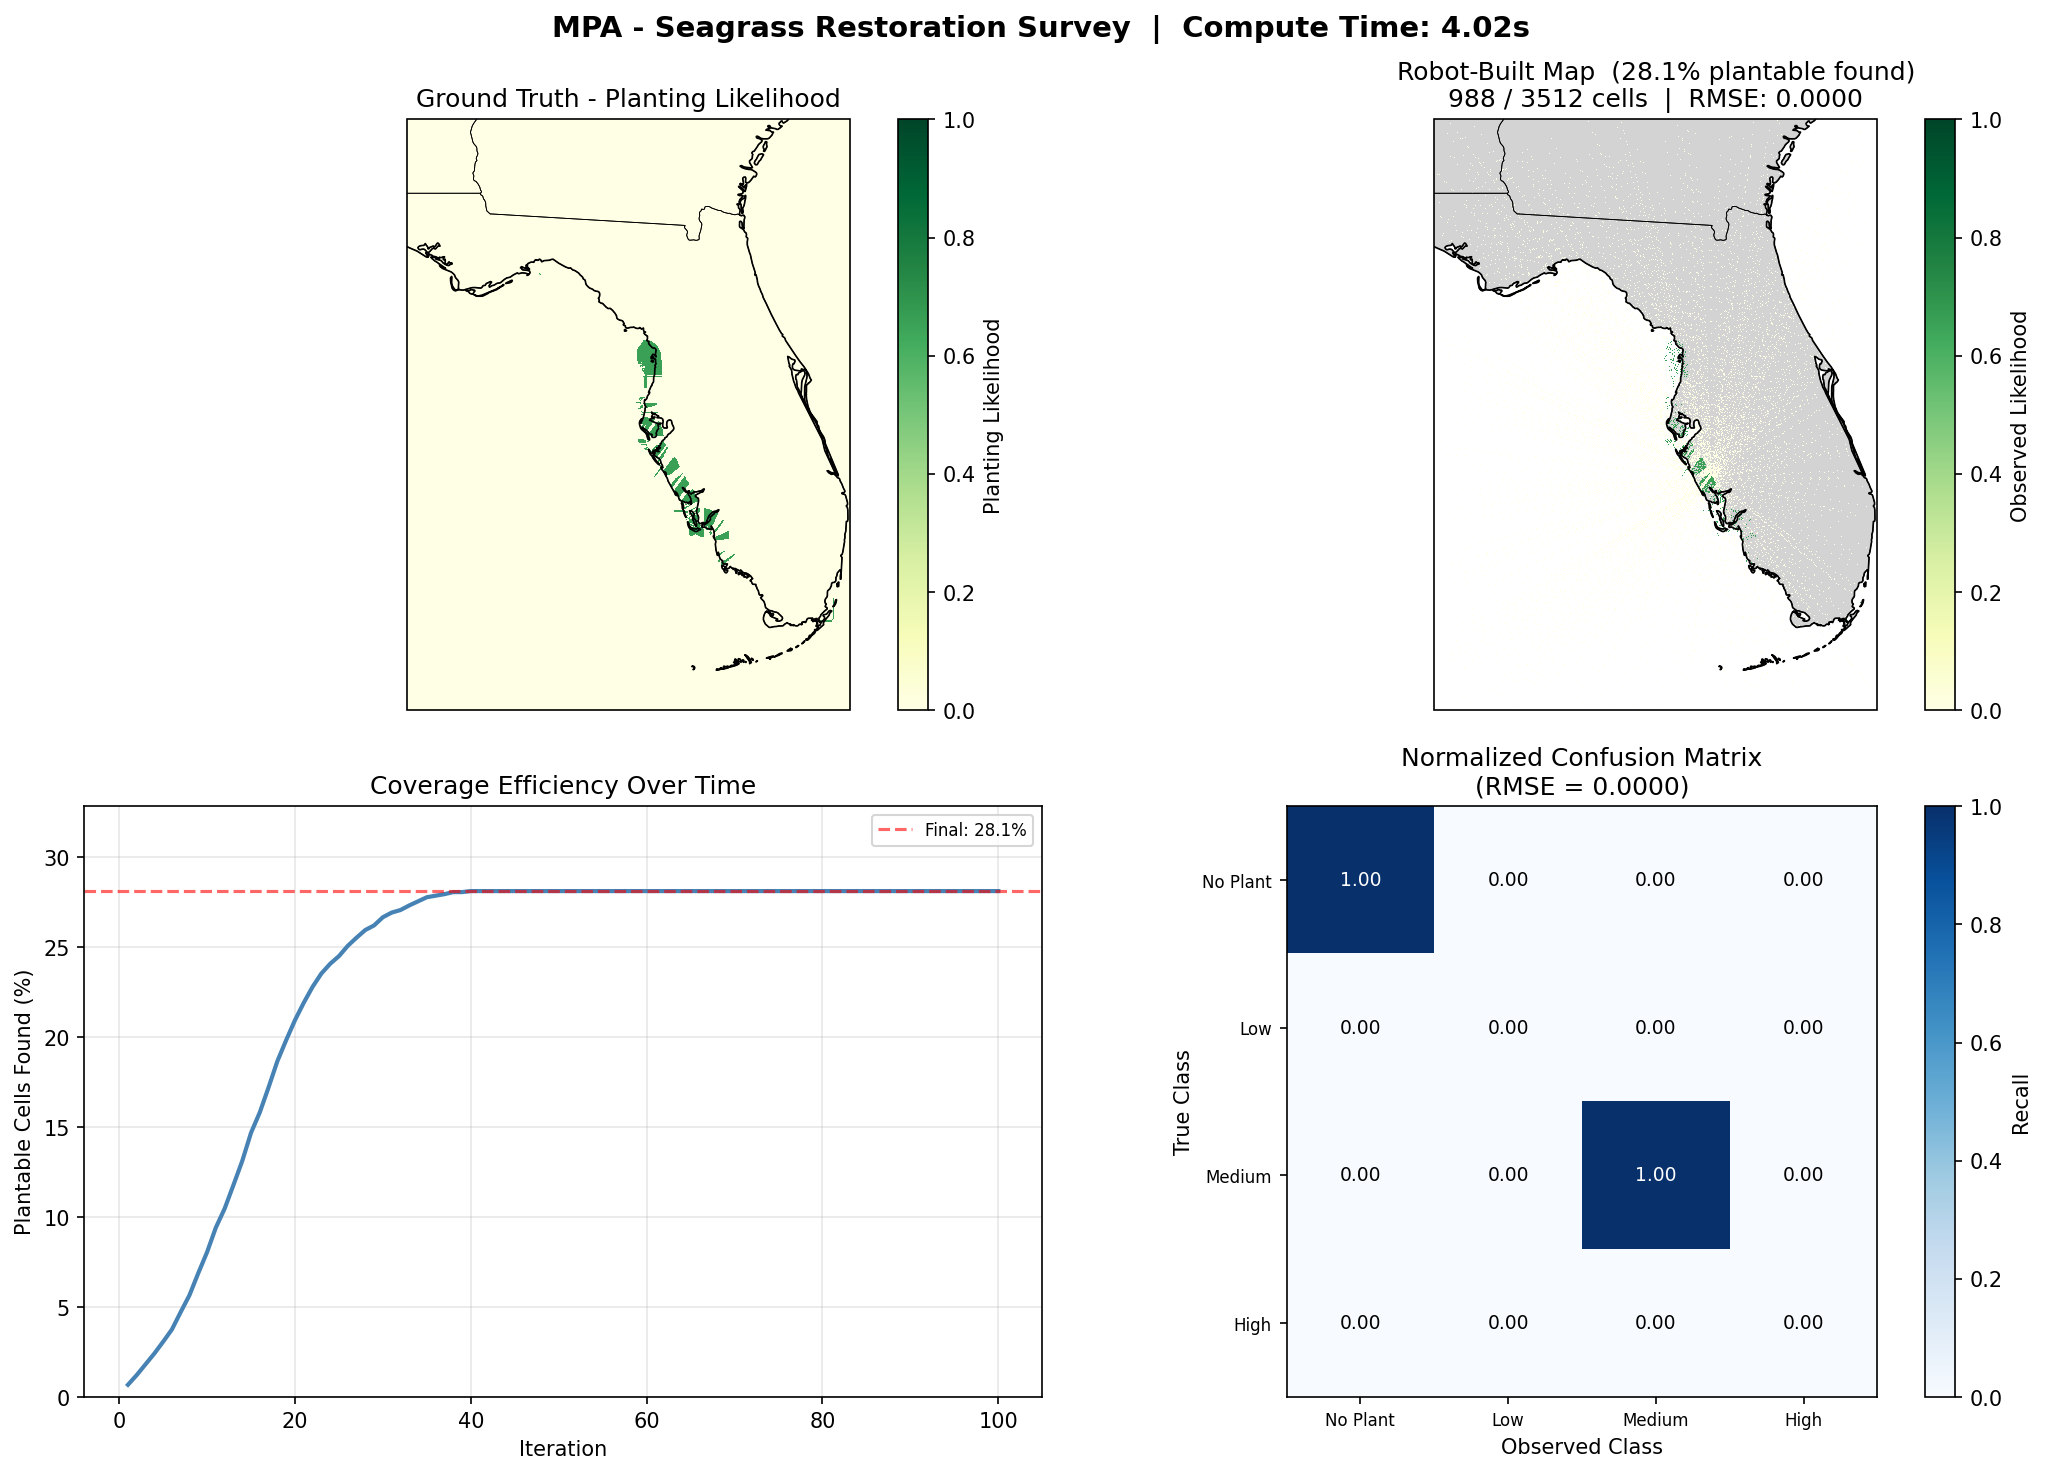
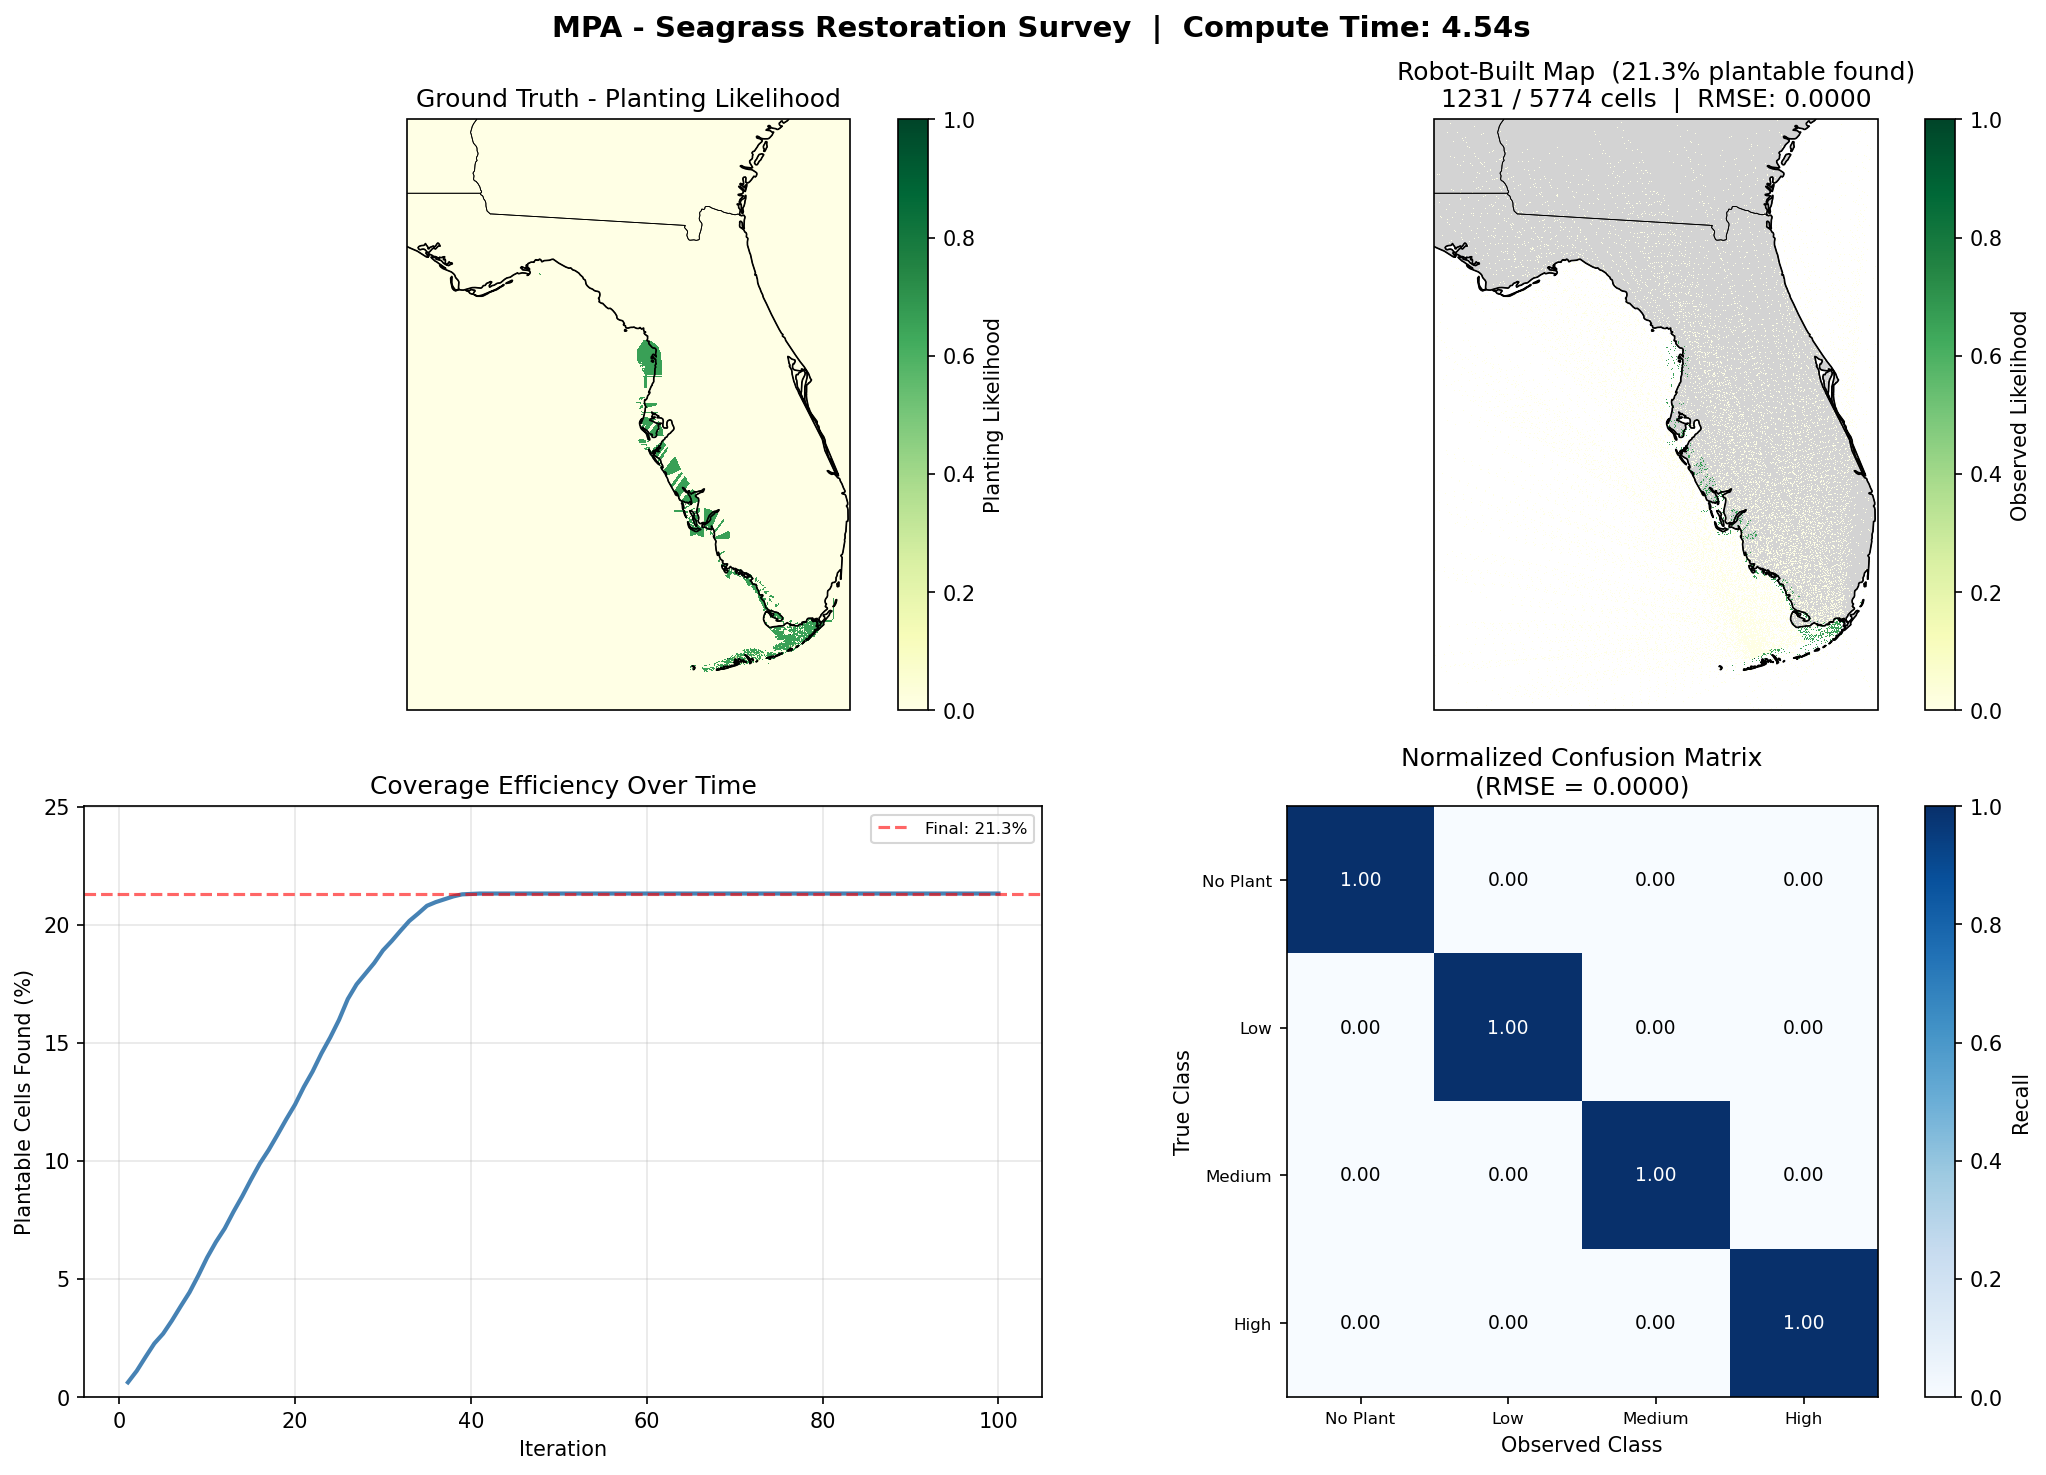
updated readme to add how you should be sure to include all tif files to get the complete viability map

diff --git a/README.md b/README.md
@@ -80,7 +80,7 @@ done
 
 cd ..
 ```
-2. Unzip all the files and move them into tif_files (it may say that these files are already there but they have a bad habit of depreciating so move them in any way). Then in your terminal run the following code:
+2. Unzip all the files and move only the tiff files in each file into tif_files. (it may say that these files are already there but they have a bad habit of depreciating so move them in any way). Then in your terminal run the following code:
 ```bash
 cd tif_files
 
@@ -95,6 +95,7 @@ Get-ChildItem "ninearcres_ncei_nintharcsec_dem_J1343192*.tif" | ForEach-Object {
 Run Mapping_of_Viable_Sites.py to build environment files needed to run the rest of the code:
 ``` bash
 conda activate rob572_env
+# You might have to manually select and drag the tif files from more_data_on_seagrass_growth_usace2022_gulf_coast_dem_J1342825 into the tif_files or else the viability map will look incomplete!
 python Mapping_of_Viable_Sites.py
 ```
 Following this you should be able to navigate into the afsa (Artificial Fish Swarm Algorithm), mpa (Marine Predator Algorithm), and woa (Whale Optimization Algorithm) folders and run the python files contained within. Each file simulates the mission with agents exploring the environment using the titular algorithm with the goal of identifying and mapping seagrass coverage. At the end of each run these files create a png file with the results of the simulated mission.
